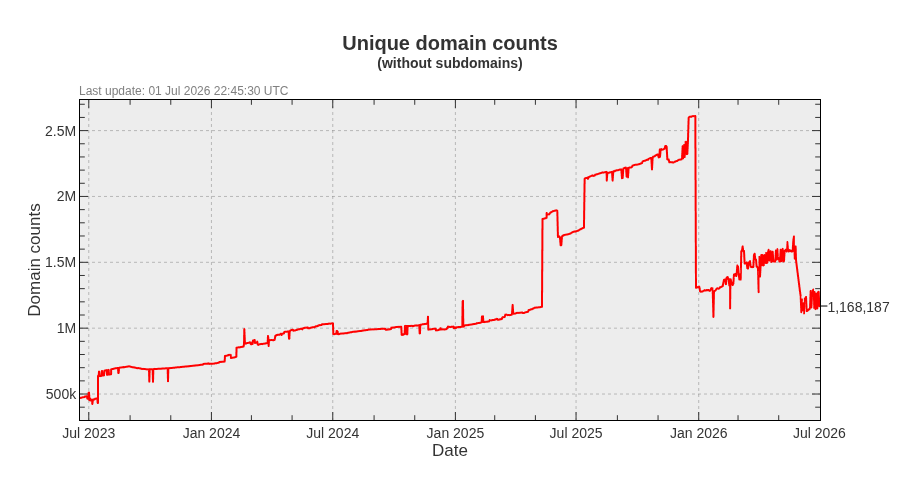
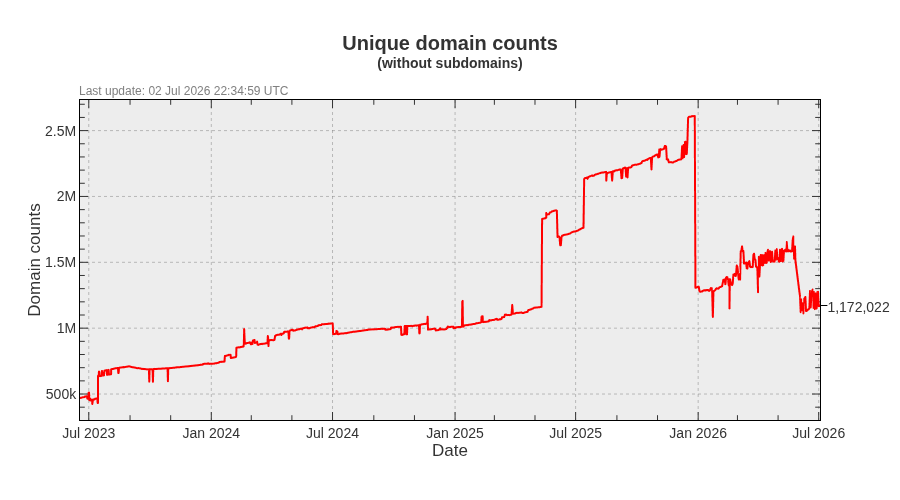
Update pages

diff --git a/README.md b/README.md
@@ -3,22 +3,22 @@ A blocklist file for blocking ads, trackers and malware domains.
 
[1 lines of base64/hex data omitted]
 
-- Unique domains: 1,832,530
-- Without subdomains: 1,168,187
-- Last update: 01 Jul 2026 22:45:30 UTC
-- Version: 2026.07.01.01
+- Unique domains: 1,836,396
+- Without subdomains: 1,172,022
+- Last update: 02 Jul 2026 22:34:59 UTC
+- Version: 2026.07.02.01
 
 
 ## Downloads:
 
 | Format             | Domain count      | Download Link |
 |------------------ | -----------------|-------------|
-| *Adblock Plus*     | 1,168,187 | [bad-hosts-abp](https://dl.cenk.app/bad-hosts/bad-hosts-abp) |
-| *Wildcard domains* | 1,168,187 | [bad-hosts-wildcard](https://dl.cenk.app/bad-hosts/bad-hosts-wildcard) |
-| *dnsmasq*          | 1,168,187 | [bad-hosts-dnsmasq](https://dl.cenk.app/bad-hosts/bad-hosts-dnsmasq) |
-| *hosts*            | 1,832,530 | [hosts](https://dl.cenk.app/bad-hosts/hosts) |
-| *hosts (ipv6)*     | 1,832,530 | [hosts-ipv6](https://dl.cenk.app/bad-hosts/hosts-ipv6) |
-| *Plain domains*    | 1,832,530 | [bad-hosts-domains](https://dl.cenk.app/bad-hosts/bad-hosts-domains) |
+| *Adblock Plus*     | 1,172,022 | [bad-hosts-abp](https://dl.cenk.app/bad-hosts/bad-hosts-abp) |
+| *Wildcard domains* | 1,172,022 | [bad-hosts-wildcard](https://dl.cenk.app/bad-hosts/bad-hosts-wildcard) |
+| *dnsmasq*          | 1,172,022 | [bad-hosts-dnsmasq](https://dl.cenk.app/bad-hosts/bad-hosts-dnsmasq) |
+| *hosts*            | 1,836,396 | [hosts](https://dl.cenk.app/bad-hosts/hosts) |
+| *hosts (ipv6)*     | 1,836,396 | [hosts-ipv6](https://dl.cenk.app/bad-hosts/hosts-ipv6) |
+| *Plain domains*    | 1,836,396 | [bad-hosts-domains](https://dl.cenk.app/bad-hosts/bad-hosts-domains) |
 
 ## Domain count history
 ### With subdomains
